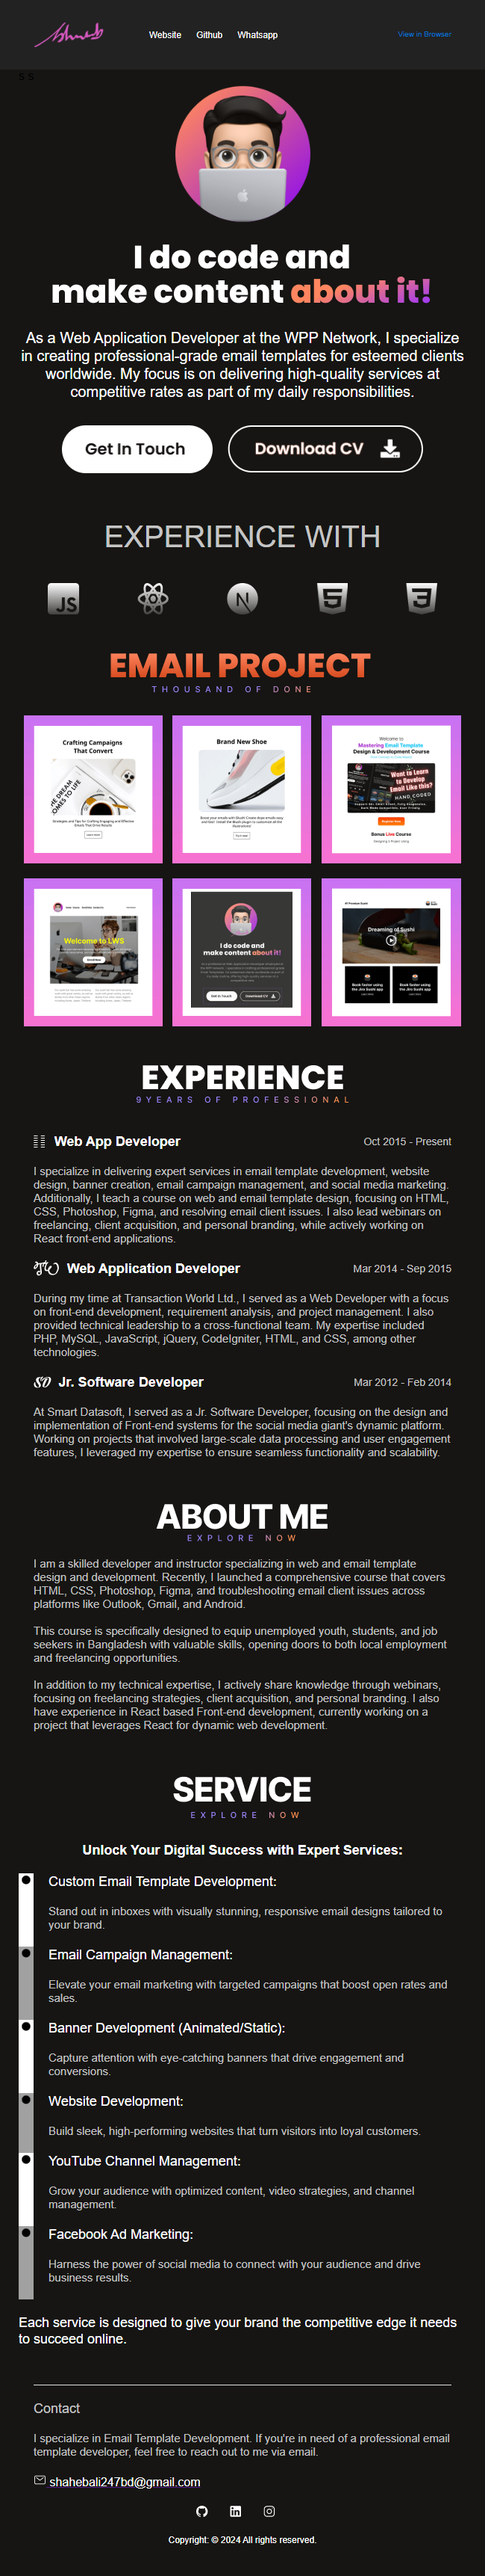
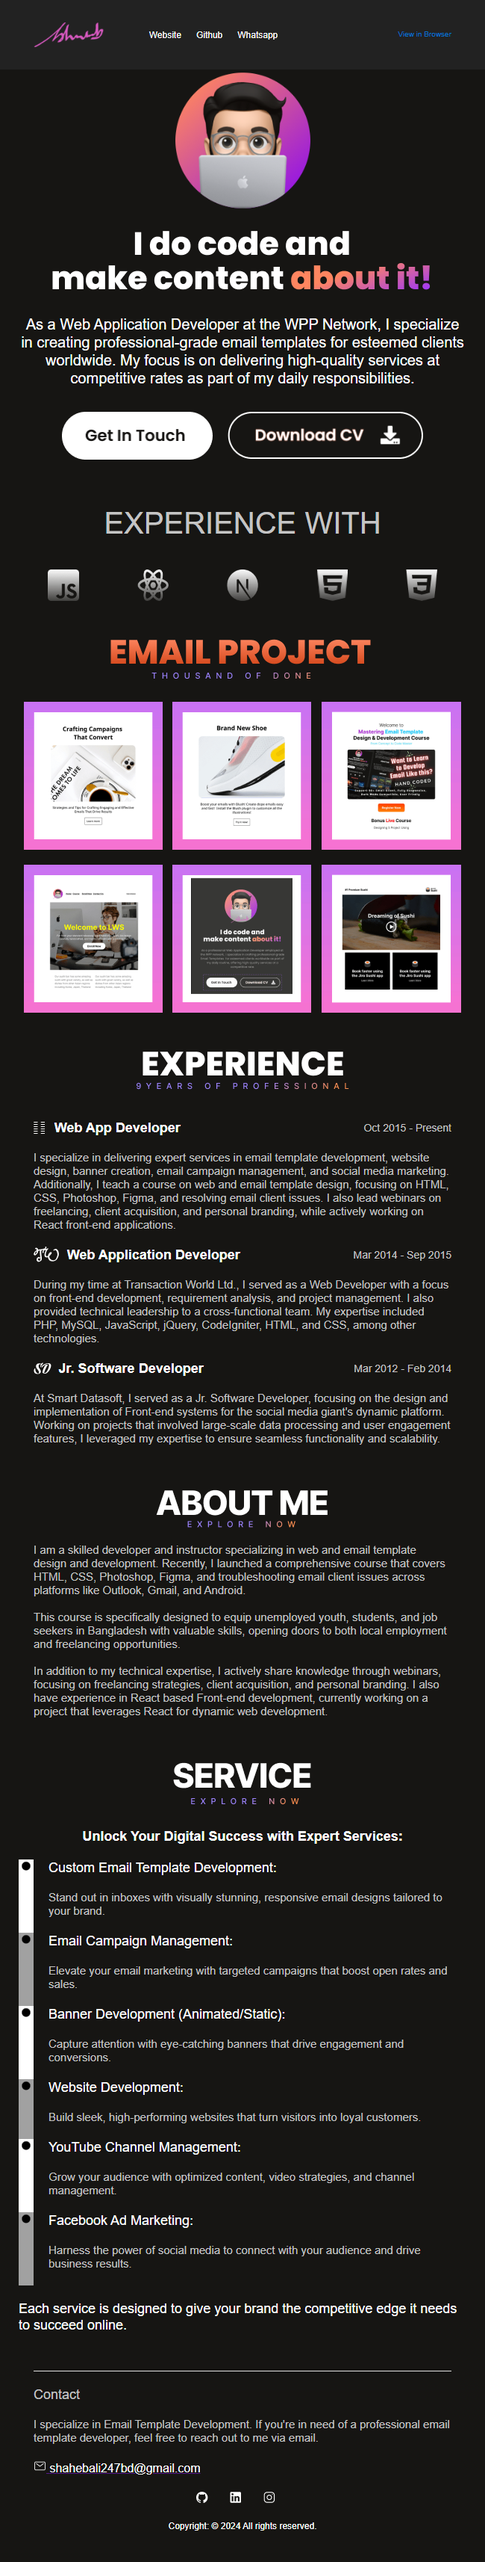
template added and md file added

Changed region(s): [[0.0308, 0.0, 0.9538, 0.9676], [0.0308, 0.8116, 0.0615, 0.8428]]

diff --git a/index.html b/index.html
@@ -6,7 +6,7 @@ xmlns:o="urn:schemas-microsoft-com:office:office">
 <meta http-equiv="Content-Type" content="text/html; charset=utf-8" />
 <meta name="viewport" content="width=device-width, initial-scale=1.0" />
 <meta http-equiv="X-UA-Compatible" content="IE=edge" />
-<!---ING DARK MODE CODE---> 
+<!---ING DARK MODs sE CODE---> 
 <!--[if gte mso 9]><xml><o:OfficeDocumentSettings><o:AllowPNG/><o:PixelsPerInch>96</o:PixelsPerInch></o:OfficeDocumentSettings></xml><![endif]--> 
 <!--Change Your Desired Outlook Dark Mode Color --> 
 <!--[if mso]> <style>
@@ -596,7 +596,6 @@ title="" style="display: block; margin: 0 auto;" /> </a></td>
                     </tr>
                   </table></td>
               </tr>
-              s
               <tr>
                 <td valign="top" height="50" style="font-size: 0px; line-height: 0px; height: 50px;">&nbsp;</td>
               </tr>
@@ -800,7 +799,7 @@ height="198" alt="" title="" style="display: block; margin: 0 auto;" /></a></td>
                     </tr>
                   </table></td>
               </tr>
-              s
+            
               <tr>
                 <td valign="top" height="50" style="font-size: 0px; line-height: 0px; height: 50px;">&nbsp;</td>
               </tr>

diff --git a/README.md b/README.md
@@ -1,1 +1,2 @@
-# email-template-portfolio
+# Portfolio Email Template
+![Dark mode full view final project](complete-template.png "Dark mode Full View")
